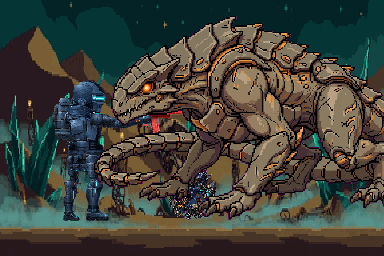
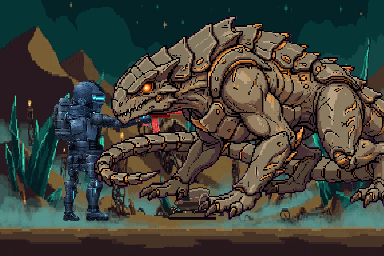
Rulings batch-3: boss panel stop transition, C1-01 forge anvil staging, crusher wedge + skimmer wreck repaints
(a) BossEncounterPanel: prep/fight/result now hand over on the
shared stopTransitionProps crossfade via AnimatePresence
mode=wait (was a hard cut, zero AnimatePresence); the result
card's bespoke entrance is retired onto the same vocabulary.
Impeccable governs; no layout change.

(b) C1-01 forge staging: the crafting lane's work point moves
to the measured anvil point (stage x 52, +6 pts onto the slab)
on the Home stage and its mirror in the panel bench scene
(x 50, +6 pts); the crafting hunter mark moves to xPct 22 so
the working hand reaches the bench. Seat-derived lanes
(salvage, service) untouched. Pinning tests added.

(c) Crusher-jaw wedge interior painted in the sprite's own
steel-shadow family (palette-surgical, non-target pixels
byte-identical); siltstalker arena prop re-authored as a
deliberate texel sprite under pxl-craft (lint clean), golden
baseline arena-siltstalker re-struck; payload ceiling
re-pinned with accounting (+15,063 B net).

Changed region(s): [[0.4375, 0.6562, 0.5625, 0.875]]

diff --git a/src/components/fight/BossEncounterPanel.tsx b/src/components/fight/BossEncounterPanel.tsx
@@ -1,6 +1,6 @@
 import React, { useEffect, useMemo, useRef, useState } from 'react';
 import { PxIcon, type PxIconName } from '@/components/pixelArt/PxIcon';
-import { motion, useReducedMotion } from 'framer-motion';
+import { AnimatePresence, motion, useReducedMotion } from 'framer-motion';
 import { AlertTriangle, CheckCircle, Lock } from 'lucide-react';
 import type { BossDef, PhaseAnalysis } from '../../types/boss';
 import { RiskSetting } from '../../types/game';
@@ -10,6 +10,7 @@ import { RARITIES } from '../../constants/rarities';
 import { getBossRiskModifiers } from '../../lib/simulation/bossSimulator';
 import { buildBossFightActivity } from '../../lib/activity/activityBuilders';
 import { buildInitialTimeline, runFightAnimation, type FightOutcome, type FightTimeline } from '../../lib/animation/fightTimeline';
+import { stopTransitionProps } from '../../lib/animation/uiMotion';
 import { getActionSkillState, verifyBossFight, type ChefVerifyBossResult } from '../../lib/chef/chefClient';
 import { ACTION_SKILL_DEFS, type ActionSkillStateView } from '@/content/actionSkills';
 import { cacheRankBonuses } from '@/content/cacheRank';
@@ -548,7 +549,13 @@ export const BossEncounterPanel: React.FC<{
           with the detail-crop cell. Everything below the header row is
           the panel's unchanged vitals/intel body. */}
       <div className="relative overflow-hidden border-2 border-red/40 bg-red/[0.06] p-3" style={panelClip}>
+        {/* The header's top row is a stop swap too (full Arena
+            Plate at prep, compact row once the fight starts) —
+            it rides the same §10 stop transition as the stage
+            blocks below instead of cutting. */}
+        <AnimatePresence mode="wait" initial={false}>
         {stage === 'prep' ? (
+          <motion.div key="prep-plate" {...stopTransitionProps(reducedMotion)}>
           <BossArenaPlate
             boss={boss}
             action={(
@@ -562,7 +569,9 @@ export const BossEncounterPanel: React.FC<{
               </button>
             )}
           />
+          </motion.div>
         ) : (
+          <motion.div key="fight-row" {...stopTransitionProps(reducedMotion)}>
           <div className="flex items-start justify-between gap-3">
             <div className="flex items-center gap-3">
               <BossCell bossId={boss.id} size={48} />
@@ -575,7 +584,9 @@ export const BossEncounterPanel: React.FC<{
               Change Boss
             </button>
           </div>
+          </motion.div>
         )}
+        </AnimatePresence>
         <div className="mt-3">
           <BossVitals boss={boss} />
         </div>
@@ -603,7 +614,16 @@ export const BossEncounterPanel: React.FC<{
         <AttackPattern boss={boss} />
       </div>
 
-      {stage === 'fighting' && fightTimeline && (
+      {/* Stage stops (rulings batch, 2026-11-15): prep / fighting /
+          result are stops on one panel, so the swap rides the §10
+          stop transition (uiMotion.stopTransitionProps) under
+          AnimatePresence — it was a hard cut, and the result card
+          carried a hand-rolled entrance the motion vocabulary
+          never named. Chrome motion only: the fight's Sample-B
+          pacing lives inside FightCard and is untouched. */}
+      <AnimatePresence mode="wait" initial={false}>
+      {stage === 'fighting' && fightTimeline ? (
+        <motion.div key="fighting" {...stopTransitionProps(reducedMotion)}>
         <FightCard
           timeline={fightTimeline}
           phases={animationPhases}
@@ -614,10 +634,9 @@ export const BossEncounterPanel: React.FC<{
           accountHp={accountHp}
           accountHpMax={accountHpMax}
         />
-      )}
-
-      {stage === 'prep' && (
-        <>
+        </motion.div>
+      ) : stage === 'prep' ? (
+        <motion.div key="prep" {...stopTransitionProps(reducedMotion)} className="space-y-3">
           {/* Phase intel — what the boss does, in order. Intel only. */}
           <MobileCard className="space-y-2">
             <div className="text-[9px] font-black uppercase tracking-[0.22em] text-amber">Phase Intel</div>
@@ -777,13 +796,10 @@ export const BossEncounterPanel: React.FC<{
           {unlocked && feeMultiplier > 1 && (
             <div className="text-center text-[10px] text-amber">Rematch fee escalated ×{feeMultiplier} — {victoriesToday} {victoriesToday === 1 ? 'victory' : 'victories'} today. Resets at 00:00 UTC.</div>
           )}
-        </>
-      )}
-
-      {stage === 'result' && result && (
-        <motion.div
-          initial={{ opacity: 0, scale: 0.96 }}
-          animate={{ opacity: 1, scale: 1 }}
+        </motion.div>
+      ) : stage === 'result' && result ? (
+        <motion.div key="result" {...stopTransitionProps(reducedMotion)} className="space-y-3">
+        <div
           className={`space-y-2 border-2 p-4 text-center ${result.result.victory ? 'border-green/40 bg-green/10' : 'border-red/40 bg-red/10'}`}
           style={panelClip}
           data-testid="boss-result"
@@ -858,8 +874,10 @@ export const BossEncounterPanel: React.FC<{
             <button type="button" onClick={fightAgain} className="bl-primary py-2.5 text-xs font-black">Fight Again</button>
             <button type="button" onClick={onLeave} className="bl-secondary py-2.5 text-xs font-black text-text-secondary">Leave Encounter</button>
           </div>
+        </div>
         </motion.div>
-      )}
+      ) : null}
+      </AnimatePresence>
 
       {/* Boss LootMoment over the victory result — the rarity ladder
           for the drops the Chef actually awarded (already synced to

diff --git a/src/test/benchItemStage.test.tsx b/src/test/benchItemStage.test.tsx
@@ -342,6 +342,64 @@ describe('the salvage beat — salvaging celebrates its settlements', () => {
   });
 });
 
+describe('the forge work point — C1-01 staging (rulings batch-3)', () => {
+  it('home stage: seat and FX sit on the anvil point, not the old fallback', () => {
+    // The bench actor stands at xPct 60 (feet anchor 0.4972), so
+    // its left edge is ≈45.0 and the anvil (centre ≈0.235 of the
+    // sprite) stands at stage x ≈52; its top face sits ≈6
+    // points above the pre-C1-01 fallback point.
+    const groundY = getPixelSprite(pixelBackgroundForArea(DEFAULT_ROAMING_AREA_ID)!)?.anchors.groundLine?.y ?? 0.86;
+    setWorkshop(serverView({ jobs: [job({})] }));
+    renderDiorama('crafting');
+    const seat = screen.getByTestId('bench-seat');
+    expect(seat.style.left).toBe('52%');
+    expect(seat.style.top).toBe(`${(groundY - 0.23) * 100}%`);
+    const fx = screen.getByTestId('bench-fx');
+    expect(fx.style.left).toBe('52%');
+    expect(fx.style.top).toBe(`${(groundY - 0.23) * 100}%`);
+  });
+
+  it('home stage: the crafting completion rise lifts off the anvil point', () => {
+    const groundY = getPixelSprite(pixelBackgroundForArea(DEFAULT_ROAMING_AREA_ID)!)?.anchors.groundLine?.y ?? 0.86;
+    const doneJob = job({ state: 'complete', unitsCompleted: 1 });
+    setWorkshop(serverView({ jobs: [doneJob], recentCompletions: [] }));
+    renderDiorama('crafting');
+    setWorkshop(serverView({
+      jobs: [doneJob],
+      recentCompletions: [{ jobId: 'job-1', recipeId: 'recipe_patch_kit', name: 'Patch Kit', unit: 0, completedAtMs: 5 } as never],
+    }));
+    const rise = screen.getByTestId('bench-completion-rise');
+    expect(rise.style.left).toBe('52%');
+    expect(rise.style.top).toBe(`${(groundY - 0.23) * 100}%`);
+  });
+
+  it('panel scene: the seat rides the same anvil, mirrored for its bench mark', () => {
+    // Panel bench at xPct 58 / heightPct 36: left edge ≈42.1,
+    // anvil at stage x ≈50, top face ≈6 points above the old
+    // (groundY − 0.19) point.
+    const groundY = getPixelSprite('zone-blastforge-bg')?.anchors.groundLine?.y ?? 0.86;
+    render(<CraftingBenchScene progress={0.4} causeLabel="Tempering" working seatJob={job({})} />);
+    const seat = screen.getByTestId('crafting-bench-seat');
+    expect(seat.style.left).toBe('50%');
+    expect(seat.style.top).toBe(`${(groundY - 0.25) * 100}%`);
+    const fx = screen.getByTestId('crafting-bench-fx');
+    expect(fx.style.left).toBe('50%');
+    expect(fx.style.top).toBe(`${(groundY - 0.25) * 100}%`);
+  });
+
+  it('the seat-derived lanes keep their registry points (salvage unchanged)', () => {
+    const seat = SET_SEATS['set-refinery-crusher']?.seat;
+    expect(seat).toBeTruthy();
+    const groundY = getPixelSprite(pixelBackgroundForArea(DEFAULT_ROAMING_AREA_ID)!)?.anchors.groundLine?.y ?? 0.86;
+    setWorkshop(serverView({ jobs: [] }));
+    renderDiorama('salvaging');
+    // No running craft job seats in the salvage lane; the point
+    // derivation itself is pinned by the service-lane rise test
+    // above. Here: the crusher's seat row still resolves.
+    expect(seatPointTopPct(seat!, 34, groundY)).toBeGreaterThan(0);
+  });
+});
+
 describe('the panel bench scene seats the caller’s job', () => {
   it('CraftingBenchScene renders the seat for the running job it is handed', () => {
     render(<CraftingBenchScene progress={0.4} causeLabel="Tempering" working seatJob={job({})} />);

diff --git a/src/components/dashboard/LiveTurfDiorama.tsx b/src/components/dashboard/LiveTurfDiorama.tsx
@@ -880,11 +880,22 @@ const PixelSceneLayerDom: React.FC<{
   // anchor, so the shared xPct (60) stays exact; only the height
   // derives. The crafting lane's bench is #447's own build, not
   // the V2-authored bench, so its seat row does not describe the
-  // shipped art and the lane keeps the point #447 tuned for it.
+  // shipped art. Its point is C1-01's measured anvil point
+  // (rulings batch-3, 2026-11-15): the bench actor stands at
+  // xPct 60 with feet anchor 0.4972, putting its left edge at
+  // ≈45.0 and the anvil (centre ≈0.235 of the sprite's width)
+  // at stage x ≈52; the anvil's top face sits ≈6 points above
+  // the old fallback point, so the seat rides the slab instead
+  // of floating off its front face (CP2's forge finding).
   const workSeatPieceId = mode === 'salvaging' ? 'set-refinery-crusher' : mode === 'workshopService' ? 'set-bay-lift' : null;
   const workSeat = workSeatPieceId ? SET_SEATS[workSeatPieceId]?.seat ?? null : null;
   const workSeatHeightPct = mode === 'salvaging' ? 34 : 36;
-  const workPointYPct = workSeat ? seatPointTopPct(workSeat, workSeatHeightPct, groundY) : (groundY - 0.17) * 100;
+  const workPointYPct = workSeat
+    ? seatPointTopPct(workSeat, workSeatHeightPct, groundY)
+    : mode === 'crafting'
+      ? (groundY - 0.23) * 100
+      : (groundY - 0.17) * 100;
+  const workPointXPct = mode === 'crafting' ? 52 : 60;
   // Salvage completion beat (M4b): salvaging has no workshop
   // mirror, so its completions arrive on the salvage feed — the
   // store every recycle result already pushes to. A fresh settled
@@ -998,7 +1009,10 @@ const PixelSceneLayerDom: React.FC<{
   // 22% mark holds (boss staging is its own composition); roaming
   // reads ROAM_HUNTER_PLACEMENT — roamChoreography owns the mark.
   const hunterPlacement: ActorPlacement = {
-    xPct: idleCamp ? 52.6 : bossOnStage ? 22 : ROAM_HUNTER_PLACEMENT.xPct,
+    // Crafting holds its own mark (C1-01, rulings batch-3): at
+    // the shared roam mark the working hand stopped ≈10 points
+    // short of the bench; xPct 22 lands it at the anvil.
+    xPct: idleCamp ? 52.6 : bossOnStage ? 22 : mode === 'crafting' ? 22 : ROAM_HUNTER_PLACEMENT.xPct,
     heightPct: ROAM_HUNTER_PLACEMENT.heightPct,
     groundY,
   };
@@ -1199,7 +1213,7 @@ const PixelSceneLayerDom: React.FC<{
           spec={benchSpec}
           active={benchWorking && !benchCelebrating}
           reduced={reduced}
-          xPct={60}
+          xPct={workPointXPct}
           yPct={workPointYPct}
           testId="bench-fx"
         />
@@ -1228,7 +1242,7 @@ const PixelSceneLayerDom: React.FC<{
         <div
           data-testid="bench-seat"
           className="pointer-events-none absolute z-20 flex items-center justify-center"
-          style={{ left: '60%', top: `${workPointYPct}%`, width: 48, height: 48, transform: 'translate(-50%, -50%)' }}
+          style={{ left: `${workPointXPct}%`, top: `${workPointYPct}%`, width: 48, height: 48, transform: 'translate(-50%, -50%)' }}
         >
           <BenchItemRender plan={seatPlan} testId="bench-seat-render" />
         </div>
@@ -1240,7 +1254,7 @@ const PixelSceneLayerDom: React.FC<{
         <StageRise
           key={benchCompletionKey(activeBenchCompletion)}
           testId="bench-completion-rise"
-          xPct={60}
+          xPct={workPointXPct}
           yPct={workPointYPct}
           width={46}
           height={46}

diff --git a/src/components/pixelArt/ActionScenes.tsx b/src/components/pixelArt/ActionScenes.tsx
@@ -128,6 +128,10 @@ export const CraftingBenchScene: React.FC<ActionSceneProps & { backgroundId?: st
   // The item on the bench (M4b): the caller's running job seats
   // its truthful output picture at the work point — the same
   // anchor BenchFx bursts from, so the sparks land on the work.
+  // The point is the anvil (C1-01 panel mirror, rulings
+  // batch-3): at xPct 58 / heightPct 36 the bench's left edge is
+  // ≈42.1 and the anvil stands at stage x ≈50, its top face
+  // ≈6 points above the old point — the seat rides the slab.
   const seatPlan = benchSeatPlanForJob(seatJob);
   return (
     <SceneShell backgroundId={backgroundId} testId="crafting-bench-scene" reduced={reduced} {...rest}>
@@ -137,12 +141,12 @@ export const CraftingBenchScene: React.FC<ActionSceneProps & { backgroundId?: st
         <div
           data-testid="crafting-bench-seat"
           className="pointer-events-none absolute z-20 flex items-center justify-center"
-          style={{ left: '58%', top: `${(groundY - 0.19) * 100}%`, width: 48, height: 48, transform: 'translate(-50%, -50%)' }}
+          style={{ left: '50%', top: `${(groundY - 0.25) * 100}%`, width: 48, height: 48, transform: 'translate(-50%, -50%)' }}
         >
           <BenchItemRender plan={seatPlan} testId="crafting-bench-seat-render" />
         </div>
       )}
-      <BenchFx spec={spec} active={active} reduced={reduced} xPct={58} yPct={(groundY - 0.19) * 100} testId="crafting-bench-fx" />
+      <BenchFx spec={spec} active={active} reduced={reduced} xPct={50} yPct={(groundY - 0.25) * 100} testId="crafting-bench-fx" />
       <PixelPartsActor
         set={look.set}
         partPalettes={look.partPalettes}

diff --git a/src/test/overhaulVisuals.test.ts b/src/test/overhaulVisuals.test.ts
@@ -390,6 +390,17 @@ describe('performance + payload budgets (§4.9)', () => {
     // (family +16,226 B; white compresses, paint does not).
     // Census after: single digits, in family. The ceiling
     // literal follows the total +1.
-    expect(total).toBeLessThan(36_220_493 + 1);  });
+    // Rulings batch-3 pixel leg (2026-11-15): the crusher-jaw
+    // wedge interior — flat unpainted white enclosed between
+    // the jaw and the body — is painted in the sprite's own
+    // steel-shadow family, palette-surgical in the shipped
+    // palette-256 form: set-refinery-crusher 256,953 ->
+    // 277,898 B (+20,945; white compresses, paint does not).
+    // The siltstalker arena prop is re-authored as a deliberate
+    // texel sprite under pxl-craft (the painterly downscale
+    // read as noise at 64x46): arena-prop-skimmer-wreck
+    // 6,375 -> 493 B (−5,882). Net +15,063 B; the ceiling
+    // literal follows the total +1.
+    expect(total).toBeLessThan(36_235_556 + 1);  });
 
 });

diff --git a/wiki/The-Board.md b/wiki/The-Board.md
@@ -55,7 +55,7 @@ The action control floats **on the stage** as one small square button at the top
 
 Roaming actors now return to their ready stance after recoil or a hit, so repeated shots read as separate exchanges. The enemy still completes its approach, and defeated enemies stay down. Leaving Home, scrolling the stage out of view, or backgrounding the app pauses the unseen animation; returning resumes the retained stage. Your hunt's settlement is independent of this presentation pause. Source breakdowns include Cache Rank contributions, extra queue/listing slots print as counts, and open consumable countdowns continue updating until expiry. While you roam the day's hot area, a small flame flickers beside the area's name in the Active Area panel under the stage — the hot area's mark riding the name your eye already reads for where you are — and stills to a steady flame under reduced motion.
 
-The centre of Home is **the stage**: your hunter, rendered with the weapon you actually have equipped, with a **gear count plate** at the top-right corner. Your equipped vehicle stands parked at the stage's left edge, half behind your hunter — the one you have equipped right now: equip or swap it in the Garage and the parked vehicle changes with it, its rolled fittings drawn whole inside its own frame. The stage prints no words of its own — no banner, no activity name, no status ribbon: what just happened — drops, finds, kills — reads in the feed cards under the stage, and the doors that matter in the moment live in the workspace under the belt: in standby that is the Roam panel (the area's rates, one **Start Roam** bar, and a **Change Area** row beneath it, with the Switch Action door beside it); while a boss encounter is open, the challenged boss stands on the stage itself, and the encounter panel underneath carries the prep, the launch, and Change Boss — when the attempt launches, the fight plays out on the stage above, and the panel carries the result. The Chaos Chamber holds the stage the same way for a run's whole length: the next encounter stands in its own arena between depths, each depth's fight plays out on the stage above, and the Chamber panel underneath carries the run's depth, escrow, banking, and result. Work has its own picture: while Craft, Salvage, or Workshop Service holds the slot, the hunter works the stage's bench unarmed — striking, pressing, and fitting as the job demands — with the job's own piece sitting on the bench under his hands (a rolled gear piece, which does not exist until it lands, waits as an empty frame in its rolled rarity's colour), and a finished unit rises off the bench as itself as he celebrates — a settled recycle sends its scrap rising off the crusher the same way. Extraction works its site in the same spirit: while it holds the slot, the hunter works the claim's sift rig in a steady dig-and-sift rhythm, and a landed pass sends its finds rising off the rig — each material and essence pictured at the count it settled. A market listing holds the stage its own way: while one of your listings runs, the hunter stands at his vendor stall tending it — weapon slung, hands on the goods in a slow handling rhythm — until the listing settles or you pull it. This is the Action workspace, living on Home itself: pick an area, tap Start Roam, and the rundown begins on the same screen.
+The centre of Home is **the stage**: your hunter, rendered with the weapon you actually have equipped, with a **gear count plate** at the top-right corner. Your equipped vehicle stands parked at the stage's left edge, half behind your hunter — the one you have equipped right now: equip or swap it in the Garage and the parked vehicle changes with it, its rolled fittings drawn whole inside its own frame. The stage prints no words of its own — no banner, no activity name, no status ribbon: what just happened — drops, finds, kills — reads in the feed cards under the stage, and the doors that matter in the moment live in the workspace under the belt: in standby that is the Roam panel (the area's rates, one **Start Roam** bar, and a **Change Area** row beneath it, with the Switch Action door beside it); while a boss encounter is open, the challenged boss stands on the stage itself, and the encounter panel underneath carries the prep, the launch, and Change Boss — when the attempt launches, the fight plays out on the stage above, and the panel carries the result. The Chaos Chamber holds the stage the same way for a run's whole length: the next encounter stands in its own arena between depths, each depth's fight plays out on the stage above, and the Chamber panel underneath carries the run's depth, escrow, banking, and result. Work has its own picture: while Craft, Salvage, or Workshop Service holds the slot, the hunter works the stage's bench unarmed — striking, pressing, and fitting as the job demands — with the job's own piece sitting on the bench's anvil, right under his hands (a rolled gear piece, which does not exist until it lands, waits as an empty frame in its rolled rarity's colour), and a finished unit rises off that same anvil as itself as he celebrates — a settled recycle sends its scrap rising off the crusher the same way. Extraction works its site in the same spirit: while it holds the slot, the hunter works the claim's sift rig in a steady dig-and-sift rhythm, and a landed pass sends its finds rising off the rig — each material and essence pictured at the count it settled. A market listing holds the stage its own way: while one of your listings runs, the hunter stands at his vendor stall tending it — weapon slung, hands on the goods in a slow handling rhythm — until the listing settles or you pull it. This is the Action workspace, living on Home itself: pick an area, tap Start Roam, and the rundown begins on the same screen.
 
 The country behind the stage is each area's full master painting, standing whole behind the fight — the Dustwaste sunset over its dunes, Redline's red sun, Ironwood under its moon, BlastForge's yards, PrismaTek's crystal hills, ThrowTech's storm towers, HelixWorks' skyline, camp under its starfield. The life on top of the paintings still moves on its own clocks: dust devils turning over the Dustwaste, aurora moving over the reactor dome, fireflies in the Bastion's tree line, embers rising at camp. And the hunter covers the ground himself: each new encounter arrives with an advance — he walks, legs striding, and settles into his stance as the enemy comes in to meet him. The enemy closes its own distance too: it enters from well off its mark, body moving with its stride as it comes, and settles in close — fights frame tight, at the range the weapons describe. At standby the stage is camp — your hunter at the fire, the camp's crates and supplies where they are kept, smoke rising and embers drifting while nothing is running.
 

diff --git a/wiki/Bosses.md b/wiki/Bosses.md
@@ -21,7 +21,7 @@ Before an attempt, prep shows you the boss itself: its stats, its mechanic, its 
 
 Every boss is somebody: the prep surface also carries one **dossier line** per boss — a single dry line about who this boss is, above the mechanic. It is persona, not intel: it never rates your chances and tells you nothing about the fight.
 
-The boss presents itself, literally: the prep header is a portrait plate of the creature itself, standing on its own arena — its name, tier and level, its first weakness as a colored chip (the strip along the plate's foot carries the same element color), and its mechanic's name. The same creature marks the boss picker rows, the fight's vitals line, and the defeat screen, each one cut from the same sprite — what prep promises is exactly what the fight delivers. And the presentation is not only in the header: on Home, the boss itself waits on the main stage while you prep, and when you launch, the fight plays out on that same stage — your hunter and the boss, blow by blow — above the panel that then carries the result. Your HP bar in the fight is your real HP pool — the same number your Hunter totals show, Cache Rank Thick Skin included — not a fight-only figure.
+The boss presents itself, literally: the prep header is a portrait plate of the creature itself, standing on its own arena — its name, tier and level, its first weakness as a colored chip (the strip along the plate's foot carries the same element color), and its mechanic's name. The same creature marks the boss picker rows, the fight's vitals line, and the defeat screen, each one cut from the same sprite — what prep promises is exactly what the fight delivers. And the presentation is not only in the header: on Home, the boss itself waits on the main stage while you prep, and when you launch, the fight plays out on that same stage — your hunter and the boss, blow by blow — above the panel that then carries the result. Your HP bar in the fight is your real HP pool — the same number your Hunter totals show, Cache Rank Thick Skin included — not a fight-only figure. The panel itself no longer snaps between its states: prep gives way to the fight, and the fight to the result, on the same short crossfade every stop in the game uses.
 
 By design, prep **never shows a computed win chance, readiness score, or any odds figure about you**. That is a hard rule of the game, not a missing feature: the intel is the boss's facts, and judging whether your build is ready is your call. If a screen ever seems to be rating your chances, that is a bug — the game does not grade you.
 

diff --git a/wiki/Changelog.md b/wiki/Changelog.md
@@ -2,6 +2,12 @@
 
 Per-release notes for CyberCache, newest first. Entries are written by hand in the same PR as any release, grouped by day and theme. The merge ledger at the foot of this page is generated from master's merge history (Wiki Phase 4) and lists every pull request the entries summarize — and the freshness gate fails if a master merge ever lands without this page catching up, so the list cannot silently lapse again.
 
+## 2026-11-15 — Three small stage repairs
+
+- **Boss fights open like a scene change, not a channel change** — the boss panel used to cut hard from prep to the fight and from the fight to the result. Each state now hands over on the game's shared stop crossfade — a short fade with a small settle — and the result card arrives on that same move instead of popping in on its own. Nothing about the fight, the intel, or the timings changed.
+- **The forge work sits on the anvil now** — at the crafting bench, the piece being worked floated off the front face of the worktop and the hunter's hands stopped short of it across a visible gap of air. He now stands at the anvil itself: the piece, the sparks, and the finished unit's rise all sit on the anvil's top face, on the Home stage and in the workshop's bench scene alike. The crusher and the service lift keep the seats they already had.
+- **Two pictures repainted** — the gap between the crusher's jaw and its body was flat unpainted white inside; it is now the machine's dark steel throat, shadowed the way the jaw would leave it. And the siltstalker's arena wreck — a crashed skimmer half-buried in the silt — has been redrawn as clean pixel work, so it reads as a wreck instead of static.
+
 ## 2026-11-14 — The stage iteration lands
 
 - **The repair bay, the vendor stall, and the calibration rig have insides now** — those three work-cycle set pieces shipped with their interiors blank white, so repairs, market listings, and shield calibrations all played in front of a white hole. The lift’s bay is a workshop wall with its tool board and cabinet, the stall’s window is its shaded back shelf, and the rig’s ring holds an instrument field — painted in the same hand and the same palette-256 form as the rest of the set. Nothing about the cycles, the seats, or the timings changed.
